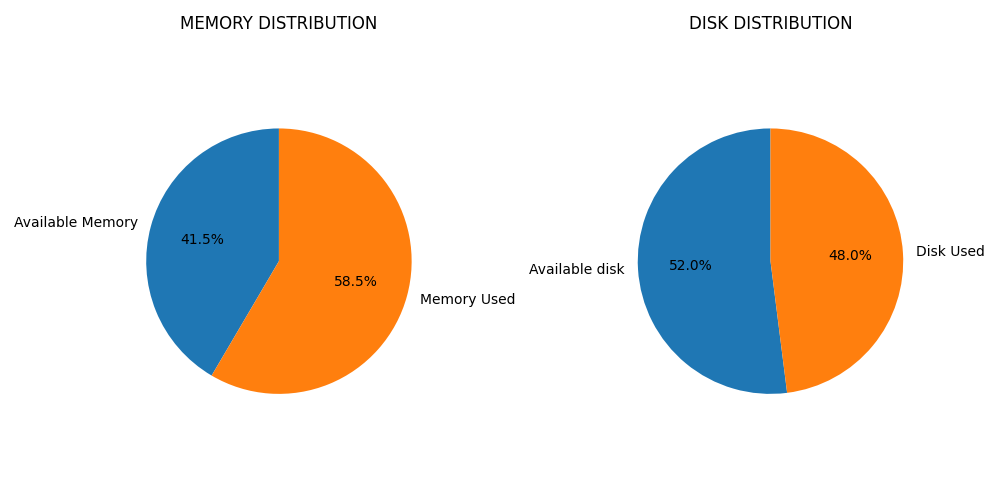
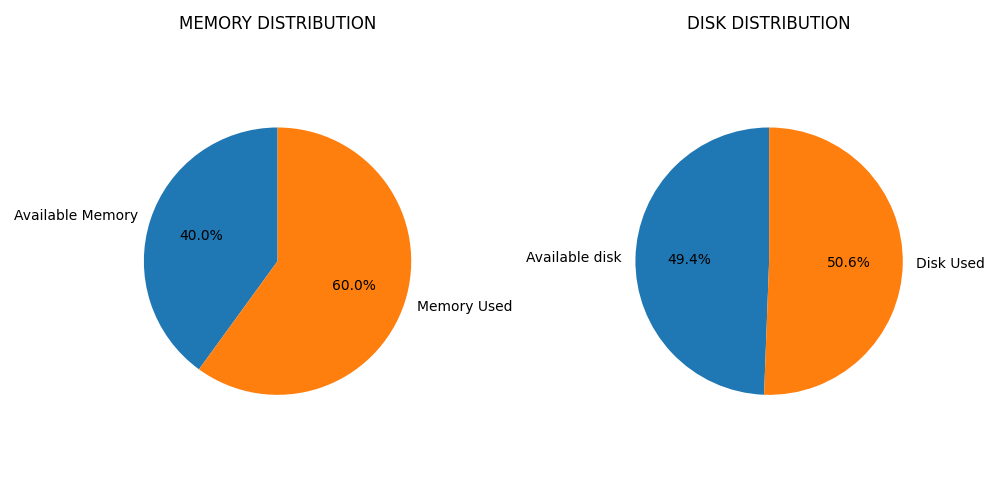
Updated script to fit new data format

diff --git a/darwish_processing_directory/scripts/summary_creator.py b/darwish_processing_directory/scripts/summary_creator.py
@@ -84,7 +84,7 @@ with open(system_report_file, "r") as f:
 		if line.startswith(r"/dev/"):
 			disk_stats = line.split()
 			disk_size = int(disk_stats[1].replace("G",""))
-			disk_percentage = int(disk_stats[4].replace("%", ""))
+			disk_percentage = float(disk_stats[4].replace("%", ""))
 			disk_perc_use.append(disk_percentage)
 
 # SYSTEM REPORT STATS
